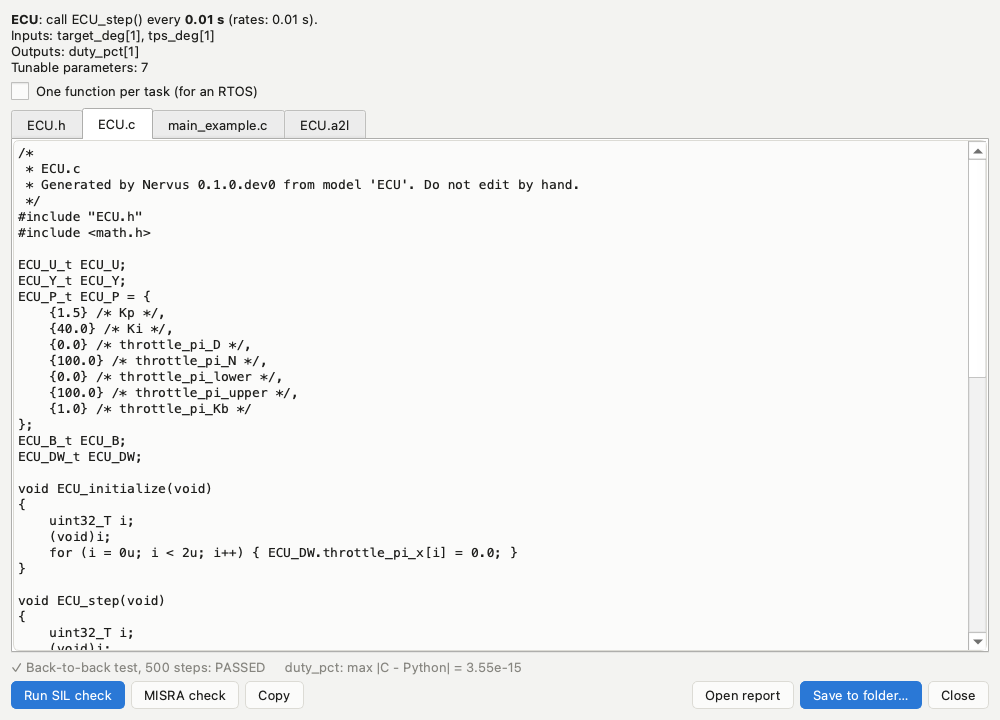
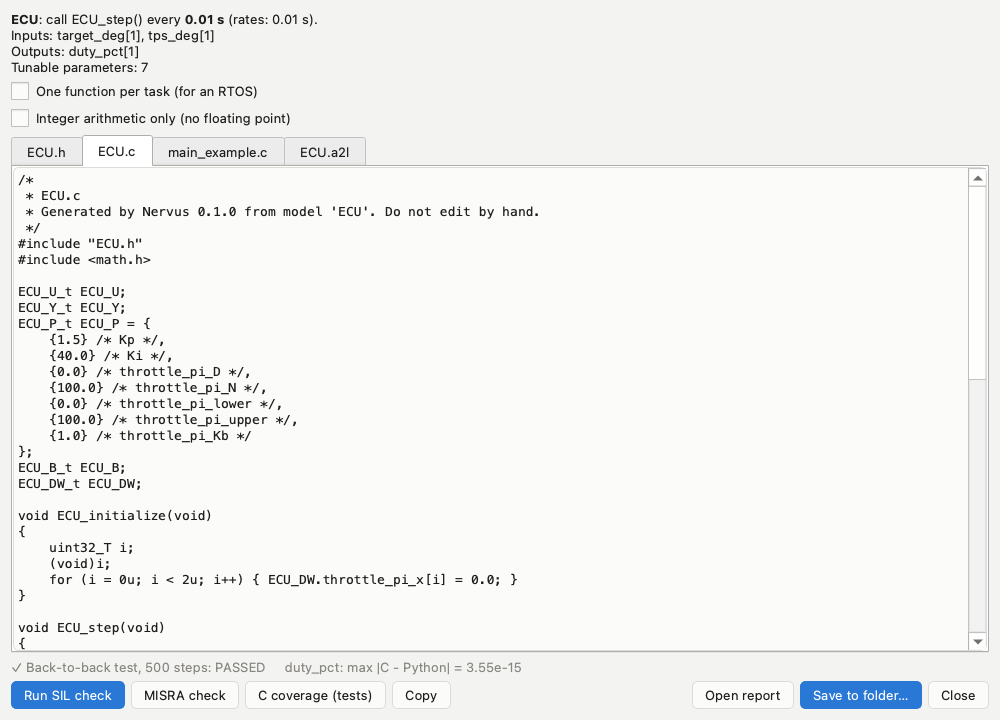
Release 0.2.0: standalone applications, .mdl import, C coverage, About window
Claude-Session: https://claude.ai/code/session_01VarAEesyLXHz6dcSdpzjd5

diff --git a/tests/test_variants.py b/tests/test_variants.py
@@ -96,7 +96,8 @@ def test_codegen_uses_active_variant() -> None:
     d.chain(u, d.add(ZeroOrderHold(sample_time=0.01)), sub, d.add(Outport(port=1), name="y"))
     code = generate_c(d)
     assert any(n.startswith("engine/g") for n in code.model.names)
-    assert "3.0" in code.files["variants.c"] and "2.0" not in code.files["variants.c"]
+    body = code.files["variants.c"].split("*/", 1)[1]  # after the header, which names the Nervus version
+    assert "3.0" in body and "2.0" not in body
     if find_compiler() is not None:
         res = back_to_back(d, {"u": 1.0}, 5, tolerance=0.0)
         assert res.passed and res.c["y"][-1, 0] == 3.0

diff --git a/src/nervus/__init__.py b/src/nervus/__init__.py
@@ -14,7 +14,7 @@ from nervus.core import (
 from nervus.io import load, save
 from nervus.sim import SimResult, compile_diagram, simulate
 
-__version__ = "0.1.0"
+__version__ = "0.2.0"
 
 __all__ = [
     "Block",

diff --git a/docs/roadmap.md b/docs/roadmap.md
@@ -14,13 +14,12 @@ Block diagrams, physical models, state charts, test cases with coverage and MC/D
 C code generation (MISRA C, fixed point, integer-only code, reusable functions, FMI), an XCP slave in the model,
 A2L export, Simulink `.slx` import, 33 tutorials. [Changelog](https://github.com/ikjbi/nervus/blob/main/CHANGELOG.md).
 
-## 0.2: reach and polish
+## 0.2: reach (released)
 
-- **Standalone installers** for macOS, Windows and Linux (no Python needed).
+- **Standalone applications** for macOS, Windows and Linux (no Python needed), on every release page.
 - **Versioned documentation**: one site per release.
-- Simulink import: older `.mdl` files, and Stateflow charts as State Chart blocks.
-- **Faster simulation** for large models (compiled execution of the model).
-- What users report: bugs, missing blocks, unclear tutorials.
+- Simulink import of the older `.mdl` text format; coverage of the generated C code by the test cases; MC/DC for
+  state chart guards; Help ▸ About Nervus with the contributors.
 
 ## 0.3: real hardware
 
@@ -30,6 +29,9 @@ A2L export, Simulink `.slx` import, 33 tutorials. [Changelog](https://github.com
   with the simulation.
 - **Hardware-in-the-loop (HIL)**: the plant model in real time on the PC, talking CAN to a real ECU.
 - The XCP slave on the board, so the board can be measured and calibrated like a production ECU.
+- Simulink import of Stateflow charts as State Chart blocks.
+- **Faster simulation** for large models (compiled execution of the model).
+- What users report: bugs, missing blocks, unclear tutorials.
 
 ## 0.4 to 0.6: measurement and calibration (the first INCA part)
 

diff --git a/CHANGELOG.md b/CHANGELOG.md
@@ -5,6 +5,10 @@ All notable changes to this project are documented here. The format follows
 
 ## [Unreleased]
 
+## [0.2.0] - 2026-11-25
+
+Standalone applications (no Python needed) on the release page.
+
 ### Added
 - Standalone applications for macOS, Windows and Linux (no Python needed), attached to every release.
 - Simulink `.mdl` import (the text format), next to `.slx`: `nervus.simulink.read_model`.
